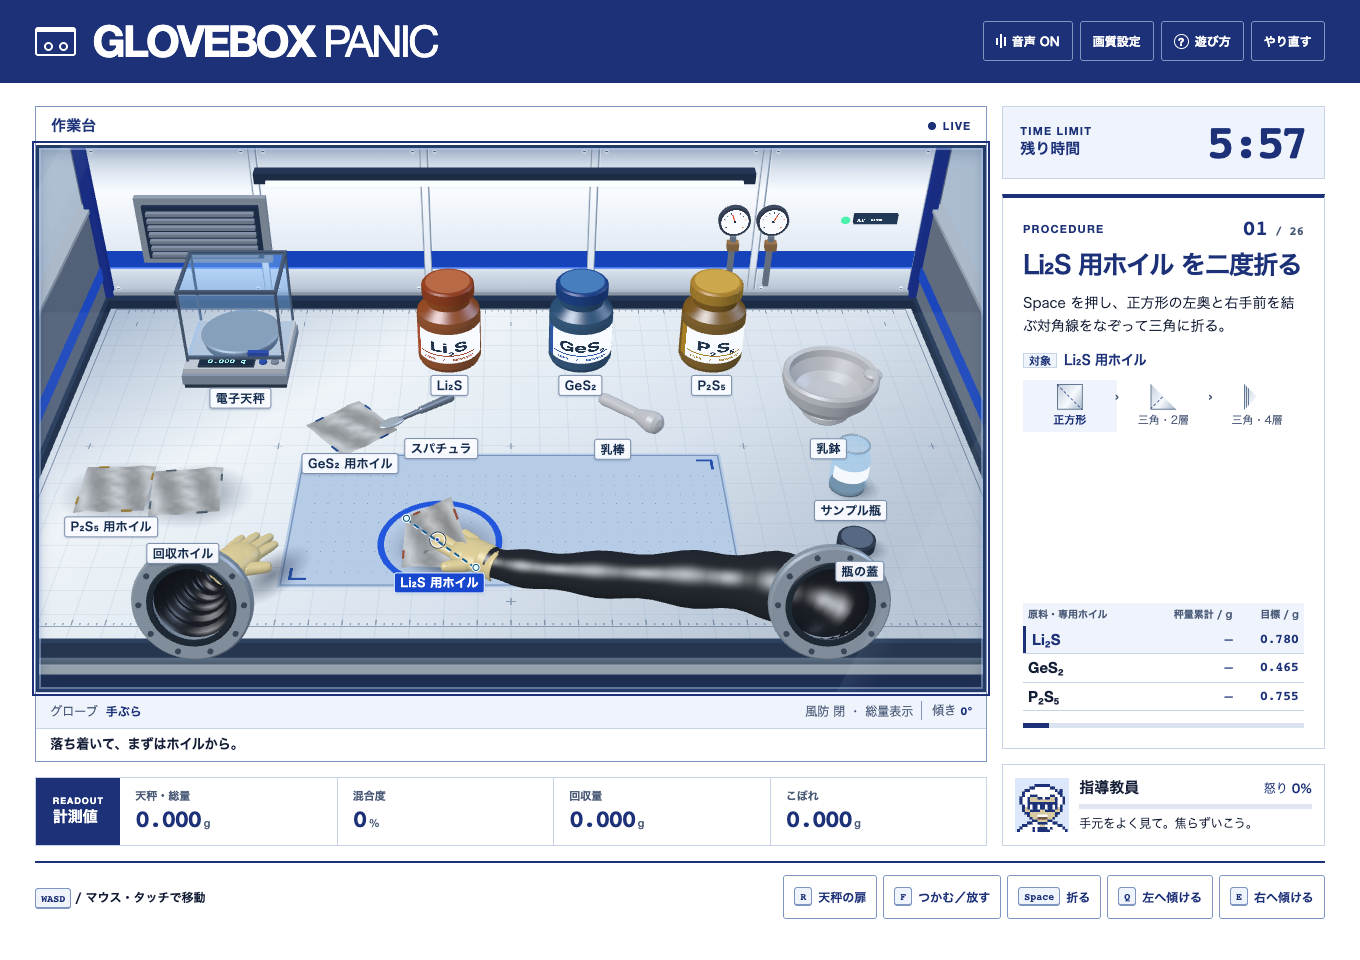
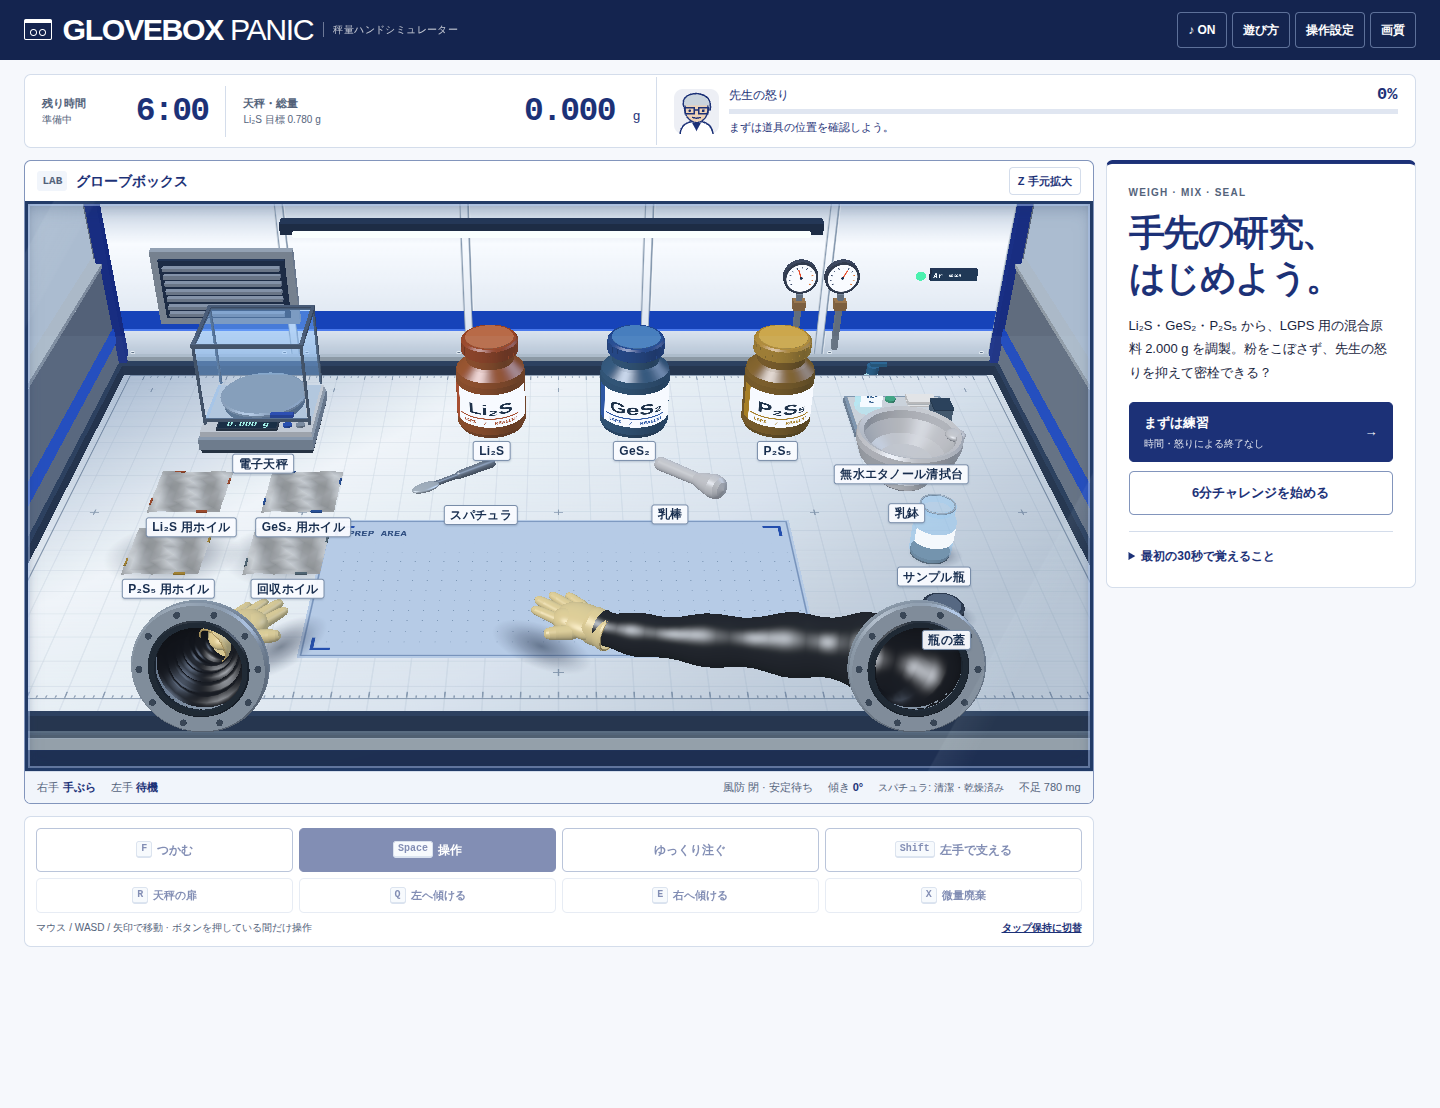
Align toppled vessel poses, preserve orientation, and verify cleaning in the browser

diff --git a/src/physics.ts b/src/physics.ts
@@ -1,7 +1,7 @@
 import Matter from 'matter-js'
 import { isFoil, isTool, isWeighFoil } from './contract.ts'
 import type { GameState, ObjectId, Station } from './contract.ts'
-import { cleanerGeometry, foilOutline, heldObjectHeight, scaleGeometry, sceneDistance, vesselGeometry, WORLD_DEPTH, WORLD_WIDTH } from './geometry.ts'
+import { cleanerGeometry, foilOutline, heldObjectHeight, scaleGeometry, sceneDistance, TOPPLE_ANGLE, vesselGeometry, WORLD_DEPTH, WORLD_WIDTH } from './geometry.ts'
 
 const { Bodies, Body, Composite, Engine, Events } = Matter
 // The rendered bench is 12 by 6.5 scene units. Preserve that aspect ratio for contact normals.
@@ -50,7 +50,6 @@ export class TablePhysics {
   private carriedVelocity = { x: 0, y: 0 }
   private carried: Matter.Body | undefined
   private supported: LooseId | null = null
-  private toppleAmounts = new Map<LooseId, number>()
   private shapeVersions = new Map<LooseId, string>()
 
   constructor(s: GameState) {
@@ -162,13 +161,15 @@ export class TablePhysics {
   private updateVessel(id: LooseId, body: Matter.Body, s: GameState, dt: number) {
     if (!(id in vesselGeometry) || id === 'cap') return
     const spec = vesselGeometry[id as keyof typeof vesselGeometry]
-    const target = s.objects[id].toppled ? 1 : 0
-    const previous = this.toppleAmounts.get(id) ?? 0
-    let amount = previous + (target - previous) * (1 - Math.exp(-dt * 12))
-    if (Math.abs(target - amount) < 0.003) amount = target
-    this.toppleAmounts.set(id, amount)
-    const version = String(Math.round(amount * 50))
-    if (this.shapeVersions.get(id) === version || (!previous && !amount)) return
+    const object = s.objects[id]
+    const target = object.toppled ? Math.sign(object.tilt || 1) * TOPPLE_ANGLE : 0
+    const previous = object.toppleAngle ?? 0
+    let angleNow = previous + (target - previous) * (1 - Math.exp(-dt * 12))
+    if (Math.abs(target - angleNow) < 0.003) angleNow = target
+    object.toppleAngle = angleNow
+    const amount = Math.abs(angleNow) / TOPPLE_ANGLE
+    const version = amount === 0 ? 'upright' : String(Math.round(amount * 50))
+    if (this.shapeVersions.get(id) === version || (!amount && !this.shapeVersions.has(id))) return
     this.shapeVersions.set(id, version)
     const center = { ...body.position }, angle = body.angle
     Body.setAngle(body, 0)
@@ -176,7 +177,7 @@ export class TablePhysics {
       const circle = Bodies.circle(0, 0, spec.radius * 100)
       Body.setVertices(body, circle.vertices)
     } else {
-      const tilt = amount * 1.36
+      const tilt = Math.abs(angleNow)
       const length = (2 * spec.radius * Math.cos(tilt) + spec.height * Math.sin(tilt)) * 100
       const depth = spec.radius * 200
       Body.setVertices(body, [
@@ -241,10 +242,10 @@ export class TablePhysics {
     this.gloveVelocity.x = (this.glove.position.x - previous.x) / (dt * 60)
     this.gloveVelocity.y = (this.glove.position.y - previous.y) / (dt * 60)
     for (const [id, body] of this.bodies) {
-      if (body.isStatic) continue
       const o = s.objects[id]
-      if (isFoil(id)) this.updateSheet(id, body, o)
       this.updateVessel(id, body, s, dt)
+      if (body.isStatic) continue
+      if (isFoil(id)) this.updateSheet(id, body, o)
       // Aim over an item to reach above it. Keep the glove raised until it clears that item,
       // so leaving a bottle mouth or a mortar after stirring cannot drag it along.
       const radius = id in vesselGeometry ? vesselGeometry[id as keyof typeof vesselGeometry].radius : isFoil(id) ? 0.6 : 0.5

diff --git a/src/scene.ts b/src/scene.ts
@@ -5,7 +5,7 @@ import { Application } from 'pixi.js'
 import { FxaaEffect } from '@pixi/3d/extras'
 import { defaultGraphics, type GraphicsSettings } from './graphics'
 import { createGame } from './game'
-import { heldObjectHeight, jarPowderHeight, pointOnFoil, pourMouth, sceneDistance, vesselGeometry } from './geometry'
+import { heldObjectHeight, jarPowderHeight, pointOnFoil, pourMouth, sceneDistance, vesselGeometry, vesselPose } from './geometry'
 import { PowderPhysics } from './powder'
 import { foldStroke, foilIds, HOME, inWork, isFoil, isTool, toolHandle, isWeighFoil, LABELS, mass, weighFoils, type GameState, type ObjectId, type Station } from './contract'
 import { ANCHOR_HEIGHT, chamber, TABLE_DEPTH, TABLE_WIDTH, worldX, worldZ } from './render/chamber'
@@ -151,7 +151,7 @@ export async function createScene(host: HTMLElement, initialGraphics = defaultGr
     caption.textContent = LABELS[id]
     marker.appendChild(caption)
     skin.appendChild(marker)
-    return { id, model, marker, caption, shadow, ax: 0, ay: 0, offset: 0, tagWidth: 0, tagHeight: 0, topple: 0 }
+    return { id, model, marker, caption, shadow, ax: 0, ay: 0, offset: 0, tagWidth: 0, tagHeight: 0 }
   })
   const goal = f.mesh(root, f.ring, f.ink(0x174edb), 0, 0.034, 0, 1)
   const working = f.mesh(root, f.ring, f.ink(0x1b9f86), 0, 0.039, 0, 1)
@@ -406,13 +406,10 @@ export async function createScene(host: HTMLElement, initialGraphics = defaultGr
       const px = pickup ? (1 - lift) * worldX(pickup.x) + lift * x : x
       const pz = pickup ? (1 - lift) * worldZ(pickup.y) + lift * z : z
       model.root.visible = !sealedCap
-      entry.topple += (Number(o.toppled) - entry.topple) * (1 - Math.exp(-dt * 12))
-      if (Math.abs(Number(o.toppled) - entry.topple) < 0.003) entry.topple = Number(o.toppled)
-      const fallingAngle = -Math.sign(o.tilt || 1) * 1.36 * entry.topple
-      const pivot = model.height * 0.5 * entry.topple
-      model.root.origin.set(0, pivot, 0)
-      model.root.position.set(px, y + pivot * Math.abs(Math.cos(fallingAngle)) + model.radius * Math.abs(Math.sin(fallingAngle)), pz)
-      model.root.rotation.z = entry.topple ? fallingAngle : -o.tilt
+      const pose = vesselPose(id, o)
+      model.root.origin.set(0, pose.originY, 0)
+      model.root.position.set(px, y + pose.offsetY, pz)
+      model.root.rotation.z = -pose.tilt
       const objectYaw = o.yaw ?? 0, initialYaw = pickup?.yaw ?? objectYaw
       const turn = Math.atan2(Math.sin(objectYaw - initialYaw), Math.cos(objectYaw - initialYaw))
       model.root.rotation.y = heldTool ? initialYaw + lift * turn : objectYaw
@@ -443,7 +440,9 @@ export async function createScene(host: HTMLElement, initialGraphics = defaultGr
         const top = width < 500 && rearInstrument ? project(x, y + model.height, z - 0.25) : null
         entry.offset = top ? top.y - anchor.y - entry.tagHeight - 2 : tag.y - anchor.y + 2
       }
-      const relevant = s.status === 'title' || id === goalId || id === s.interactionTarget || id === hovering || id === held || id === s.supportTarget
+      const titleLabel = s.status === 'title' && (width >= 500 ||
+        id === 'scale' || id === 'foil' || id === 'cleaner' || id === 'jarA' || id === 'jarB' || id === 'jarC')
+      const relevant = titleLabel || id === goalId || id === s.interactionTarget || id === hovering || id === held || id === s.supportTarget
       marker.hidden = !relevant ||
         heldTool || sealedCap ||
         (id === 'work' && goalId !== 'work') ||

diff --git a/tests/browser/workbench.spec.ts b/tests/browser/workbench.spec.ts
@@ -7,15 +7,22 @@ async function ready(page: Page) {
   await expect(page.getByTestId('start-practice')).toBeEnabled()
 }
 
+async function stationAnchor(page: Page, id: string) {
+  const station = page.locator(`.gb-station[data-station="${id}"]`)
+  return station.evaluate(element => {
+    // display:none makes Chromium report a computed transform of "none".
+    // The inline transform still contains the scene's projected equipment point.
+    const anchor = new DOMMatrix((element as HTMLElement).style.transform)
+    const surface = element.closest('.gb-window')!.getBoundingClientRect()
+    return { x: surface.x + anchor.m41, y: surface.y + anchor.m42 }
+  })
+}
+
 async function pointAtStation(page: Page, id: string) {
   const station = page.locator(`.gb-station[data-station="${id}"]`)
   // Labels appear on hover to keep the bench readable. Aim at the rendered
   // station anchor before using its visible caption; do not change game state.
-  const point = await station.evaluate(element => {
-    const anchor = new DOMMatrix(getComputedStyle(element).transform)
-    const surface = element.closest('.gb-window')!.getBoundingClientRect()
-    return { x: surface.x + anchor.m41, y: surface.y + anchor.m42 }
-  })
+  const point = await stationAnchor(page, id)
   await page.mouse.move(point.x, point.y)
   await expect(station.locator('span')).toBeVisible()
   await station.locator('span').hover()
@@ -76,6 +83,7 @@ test('critical measurements and controls stay visible on a touch screen', async 
   }
   const overflow = await page.evaluate(() => document.documentElement.scrollWidth > window.innerWidth + 1)
   expect(overflow, 'the mobile page must not scroll sideways').toBe(false)
+  await page.screenshot({ path: info.outputPath('mobile-playing.png'), fullPage: false })
 })
 
 test('keyboard holding a focused tilt button remains pressed until keyup', async ({ page }, info) => {
@@ -135,7 +143,12 @@ test('a used spatula is wiped with a fresh wipe and must dry before reuse', asyn
   test.skip(info.project.name !== 'desktop', 'pointer and keyboard workflow')
   await ready(page)
   await page.getByTestId('start-practice').click()
-  await pointAtStation(page, 'jarA')
+  const reagent = await pointAtStation(page, 'jarA')
+  await reagent.locator('span').click()
+  await expect(page.getByTestId('hand-readout').locator('strong').first()).toHaveText('Li₂S')
+  const work = await stationAnchor(page, 'work')
+  await page.mouse.click(work.x, work.y)
+  await expect(page.getByTestId('hand-readout').locator('strong').first()).toHaveText('手ぶら')
   await expect(page.getByTestId('action-control')).toContainText('開栓')
   await page.keyboard.down('Space')
   await expect(page.getByTestId('action-control')).toContainText('蓋を閉める')

diff --git a/src/physics.test.ts b/src/physics.test.ts
@@ -1,9 +1,10 @@
 import assert from 'node:assert/strict'
 import test from 'node:test'
+import { Container3D } from '@pixi/3d'
 import { startGame, stepGame } from './game.ts'
 import { HOME } from './contract.ts'
 import { TablePhysics } from './physics.ts'
-import { heldObjectHeight, pointOnFoil, pourMouth, receiverSpec, sceneDistance, vesselGeometry, WORLD_WIDTH, WORLD_DEPTH } from './geometry.ts'
+import { heldObjectHeight, pointOnFoil, pourMouth, receiverSpec, sceneDistance, vesselGeometry, vesselPose, WORLD_WIDTH, WORLD_DEPTH } from './geometry.ts'
 
 const dt = 1 / 120
 
@@ -158,4 +159,38 @@ test('a tilted collection foil clears the vial rim and the pour edge changes wit
   const left = pourMouth('foil2', s.objects.foil2, height)
   assert.ok(left.x < s.objects.foil2.x && right.x > s.objects.foil2.x)
   assert.ok(Math.abs(left.height - right.height) < 1e-6)
+})
+
+test('a falling vessel stays on the bench and its rendered mouth matches the powder origin', () => {
+  for (const sign of [-1, 1]) for (const angle of [0.2, 0.8, 1.36]) {
+    const object = { ...startGame().objects.jarA, x: 0.5, y: 0.5, yaw: 0.7,
+      toppled: true, tilt: sign * 0.98, toppleAngle: sign * angle }
+    const pose = vesselPose('jarA', object)
+    const node = new Container3D()
+    node.origin.set(0, pose.originY, 0)
+    node.position.y = pose.offsetY
+    node.rotation.set(0, object.yaw, -pose.tilt)
+    const lowest = node.toGlobal({ x: sign * vesselGeometry.jarA.radius, y: 0, z: 0 })
+    assert.ok(Math.abs(lowest.y) < 1e-6, `lowest edge floated at ${lowest.y}`)
+    const rendered = node.toGlobal({ x: sign * vesselGeometry.jarA.mouth, y: 1.25, z: 0 })
+    const mouth = pourMouth('jarA', object, 0)
+    assert.ok(Math.abs(rendered.x - (mouth.x - 0.5) * WORLD_WIDTH) < 1e-6)
+    assert.ok(Math.abs(rendered.z - (mouth.y - 0.5) * WORLD_DEPTH) < 1e-6)
+    assert.ok(Math.abs(rendered.y - mouth.height) < 1e-6)
+  }
+
+  const s = startGame(), jar = s.objects.jarA
+  Object.assign(jar, { x: 0.45, y: 0.65, toppled: true, tilt: 0.98 })
+  const table = new TablePhysics(s)
+  for (let i = 0; i < 80; i++) table.step(s, s.hand, dt)
+  assert.ok(jar.toppleAngle! > 1.3)
+  Object.assign(jar, { toppled: false, tilt: 0, toppleAngle: 0 })
+  Object.assign(s.hand, { x: jar.x, y: jar.y, held: 'jarA' })
+  table.lift('jarA')
+  const neighbor = { x: jar.x + 1.14 / WORLD_WIDTH, y: jar.y }
+  Object.assign(s.objects.jarB, neighbor)
+  table.release('jarB', neighbor, { x: 0, y: 0 }, false)
+  for (let i = 0; i < 10; i++) table.step(s, { x: 0.9, y: 0.9 }, dt)
+  assert.ok(sceneDistance(s.objects.jarB, neighbor) < 0.001,
+    'immediate pickup must restore the upright footprint before carrying past a neighbor')
 })

diff --git a/src/geometry.ts b/src/geometry.ts
@@ -4,6 +4,7 @@ import type { GameState, ObjectId, Station, TableObject } from './contract.ts'
 /** Scene units, shared by contact, interaction, pouring and drawing. */
 export const WORLD_WIDTH = 12
 export const WORLD_DEPTH = 6.5
+export const TOPPLE_ANGLE = 1.36
 export const sceneDistance = (a: Station, b: Station) =>
   Math.hypot((a.x - b.x) * WORLD_WIDTH, (a.y - b.y) * WORLD_DEPTH)
 export const toWorld = (p: Station) => ({ x: (p.x - 0.5) * WORLD_WIDTH, z: (p.y - 0.5) * WORLD_DEPTH })
@@ -19,6 +20,19 @@ export const scaleGeometry = { width: 1.59, depth: 1.40, panHeight: 0.515, panRa
 export const cleanerGeometry = { width: 1.42, depth: 1.0, height: 0.9 }
 export const isJar = (id: ObjectId): id is 'jarA' | 'jarB' | 'jarC' => id === 'jarA' || id === 'jarB' || id === 'jarC'
 export const jarPowderHeight = (o: TableObject) => 0.19 + 0.917 * Math.sqrt(Math.min(1, mass(o) / 5))
+
+/** Container3D.origin rotates about position + origin, unlike a conventional pivot. */
+export function vesselPose(id: ObjectId, o: TableObject) {
+  const spec = id in vesselGeometry && id !== 'cap' ? vesselGeometry[id as keyof typeof vesselGeometry] : null
+  const angle = spec ? o.toppleAngle ?? (o.toppled ? Math.sign(o.tilt || 1) * TOPPLE_ANGLE : 0) : 0
+  if (!spec || (!o.toppled && angle === 0)) return { tilt: o.tilt, originY: 0, offsetY: 0 }
+  const originY = spec.height * 0.5 * Math.min(1, Math.abs(angle) / TOPPLE_ANGLE)
+  return {
+    tilt: angle,
+    originY,
+    offsetY: originY * (Math.cos(angle) - 1) + spec.radius * Math.abs(Math.sin(angle)),
+  }
+}
 
 /** The same outline is used by Matter and mouse picking; no invisible square after a fold. */
 export function foilOutline(o: Pick<TableObject, 'foldCount' | 'unfolded'>): { x: number; z: number }[] {
@@ -82,10 +96,13 @@ export function heldObjectHeight(s: GameState) {
 }
 
 function lipOffset(id: ObjectId, o: TableObject) {
-  const tilt = o.tilt, sign = tilt < 0 ? -1 : 1
+  const pose = vesselPose(id, o), tilt = pose.tilt, sign = tilt < 0 ? -1 : 1
   const lip = isJar(id) ? 1.25 : id === 'mortar' ? 0.72 : id === 'vial' ? 0.75 : isFoil(id) ? 0.12 : 0
   const edge = isJar(id) ? 0.29 : id === 'mortar' ? 0.59 : id === 'vial' ? 0.184 : isFoil(id) ? 0.40 : 0.10
-  return { dx: sign * edge * Math.cos(tilt) + lip * Math.sin(tilt), dy: lip * Math.cos(tilt) - sign * edge * Math.sin(tilt) }
+  return {
+    dx: sign * edge * Math.cos(tilt) + (lip - pose.originY) * Math.sin(tilt),
+    dy: pose.offsetY + pose.originY + (lip - pose.originY) * Math.cos(tilt) - sign * edge * Math.sin(tilt),
+  }
 }
 function clearReceiverRims(s: GameState, base: number) {
   const held = s.hand.held

diff --git a/src/game.ts b/src/game.ts
@@ -249,7 +249,6 @@ function pickup(s: EngineState, table: TablePhysics) {
     s.hand.toolPickup = undefined
     table.release(held, o, { x: s.hand.vx, y: s.hand.vy }, onPan)
     o.tilt = 0
-    o.yaw = 0
     s.hand.held = null
     s.hand.tilt = 0
     return
@@ -280,7 +279,7 @@ function pickup(s: EngineState, table: TablePhysics) {
   }
   table.lift(id)
   if (isTool(id)) s.hand.toolPickup = { x: o.x, y: o.y, yaw: o.yaw ?? 0, progress: 0 }
-  o.yaw = 0
+  o.toppleAngle = 0
   s.hand.held = id
   s.hand.tilt = o.tilt
 }
@@ -528,14 +527,16 @@ function interaction(s: EngineState, input: GameInput): Task {
   }
   if (!held) {
     const nearFoil = [...Object.values(weighFoils), 'foil2' as const]
-      .filter(id => near(id, 0.82) && inWork(o[id]) && !o[id].spent)
+      .filter(id => near(id, 0.82) && !o[id].spent)
       .sort((a, b) => sceneDistance(s.hand, o[a]) - sceneDistance(s.hand, o[b]))[0]
     if (nearFoil && !o[nearFoil].unfolded) {
+      if (!inWork(o[nearFoil])) return blocked(nearFoil, 'fold', 'ホイルを F でつかみ、手前の作業面に置いてから折ろう。')
       return o[nearFoil].folded
         ? ready(nearFoil, 'unfold', 'Space を一度離し、長押しで開く。折り筋付きの受け皿として使う。')
         : ready(nearFoil, 'fold', o[nearFoil].foldCount === 0 ? 'Space を押して対角線をなぞる。1回ごとに離そう。' : 'Space を押して2本目の折り目をなぞる。')
     }
-    const jar = Object.values(bottles).find(id => near(id, 0.56) && inWork(o[id]))
+    const jar = Object.values(bottles).find(id => near(id, 0.56))
+    if (jar && !inWork(o[jar])) return blocked(jar, 'open', '原料瓶を F でつかみ、手前の作業面に置いてから開閉しよう。')
     if (jar) return o[jar].toppled ? blocked(jar, 'open', '原料瓶が倒れている。F で起こそう。')
       : ready(jar, 'open', `Space 長押しで ${LABELS[jar]} を${o[jar].open ? '閉じる' : '開ける'}。`)
   }

diff --git a/src/game.test.ts b/src/game.test.ts
@@ -102,6 +102,10 @@ function bench(mode: 'standard' | 'practice' = 'practice') {
     down(HOME.spatula); door(false); action(); door(true); take(weighFoils[p]); pourTo('mortar')
     assert.equal(s.objects[weighFoils[p]].spent, true)
     grip()
+    // Clear the carrying path before moving the large mortar across the bench.
+    to(bottles[p]); action()
+    assert.equal(s.objects[bottles[p]].open, false)
+    take(bottles[p]); down(HOME[bottles[p]])
   }
   function load() {
     take('mortar'); down(workPositions.mortar)
@@ -323,6 +327,24 @@ test('a dirty spoon cannot return one ingredient into a different stock bottle',
   assert.equal(s.objects.jarB.a, 0)
   assert.equal(s.objects.spatula.a, 0.2)
   assert.match(s.actionReason, /戻せない/)
+})
+
+test('picking up and putting down a rotated object preserves yaw through the game loop', () => {
+  for (const id of ['jarA', 'spatula'] as const) {
+    const s = startGame('practice')
+    const yaw = id === 'jarA' ? 0.7 : -0.6
+    Object.assign(s.objects[id], { x: 0.45, y: 0.72, yaw })
+    const aim = isTool(id) ? toolHandle(id, s.objects[id]) : s.objects[id]
+    Object.assign(s.hand, { x: aim.x, y: aim.y })
+    const input: GameInput = { targetX: aim.x, targetY: aim.y, action: false, gripPressed: true, tilt: 0 }
+    stepGame(s, input, 0.02)
+    assert.equal(s.hand.held, id)
+    assert.ok(Math.abs(s.objects[id].yaw! - yaw) < 1e-6, 'pickup must preserve the existing direction')
+    stepGame(s, { ...input, gripPressed: false }, 0.25)
+    stepGame(s, input, 0.02)
+    assert.equal(s.hand.held, null)
+    assert.ok(Math.abs(s.objects[id].yaw! - yaw) < 1e-6, 'release must preserve the carried direction')
+  }
 })
 
 test('uncapped held bottles spill when tilted or jerked, while capped bottles retain powder', () => {

diff --git a/src/contract.ts b/src/contract.ts
@@ -52,6 +52,7 @@ export const LABELS: Record<ObjectId, string> = {
 export interface TableObject extends Station {
   tilt: number; // signed radians
   yaw?: number; // scene yaw from in-plane rigid-body rotation, radians
+  toppleAngle?: number; // current signed fall angle, shared by contact, drawing and powder release
   toppled: boolean;
   open: boolean;
   foldCount: 0 | 1 | 2;

diff --git a/README.md b/README.md
@@ -48,7 +48,7 @@ Li₂S・GeS₂・P₂S₅ の物質量比は **5：1：1**。原子量から2.0
 3. 原料瓶を開け、スパチュラの先を実際の瓶口に合わせてすくう。
 4. 風防を開け、ホイルへ注ぐ。傾ける向きと注ぎ口の位置を合わせる。
 5. 量を調整し、風防を閉めて手を止める。「安定」になったら許容範囲内の秤量値を記録する。
-6. ホイルから乳鉢へ移す。次の原料の前にスパチュラを清拭・乾燥する。
+6. ホイルから乳鉢へ移す。使い終えた原料瓶は閉めて奥へ戻し、作業面を空ける。次の原料の前にスパチュラを清拭・乾燥する。
 7. 3原料がそろったら乳棒で乳鉢の内側を広く混ぜる。
 8. 開いた回収ホイルへ移し、サンプル瓶に注いで密栓する。
 
